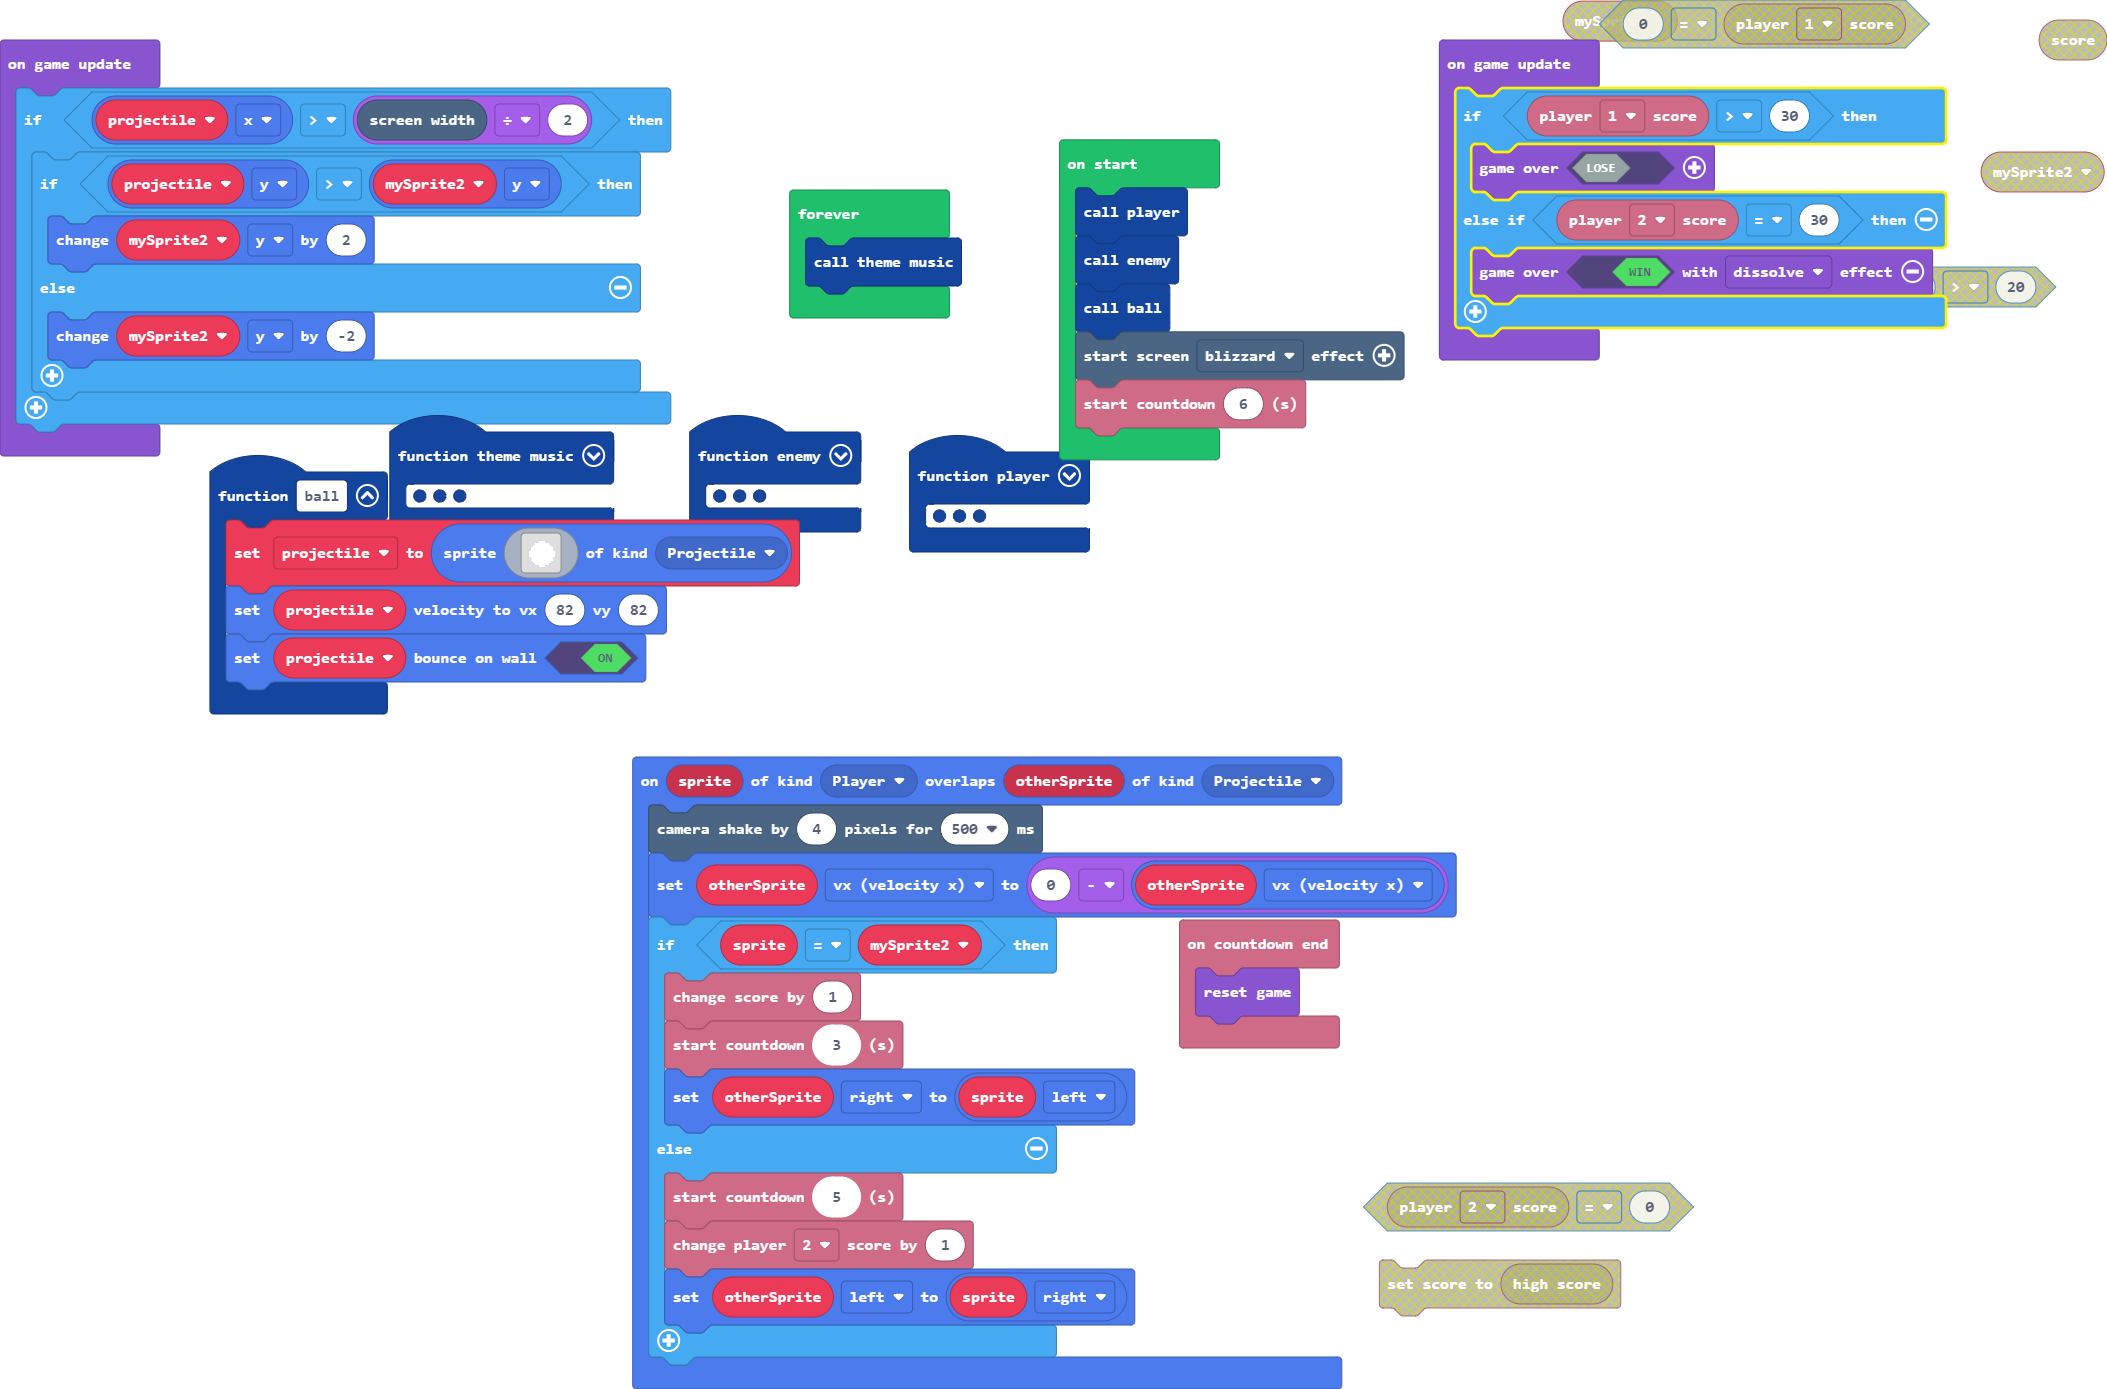
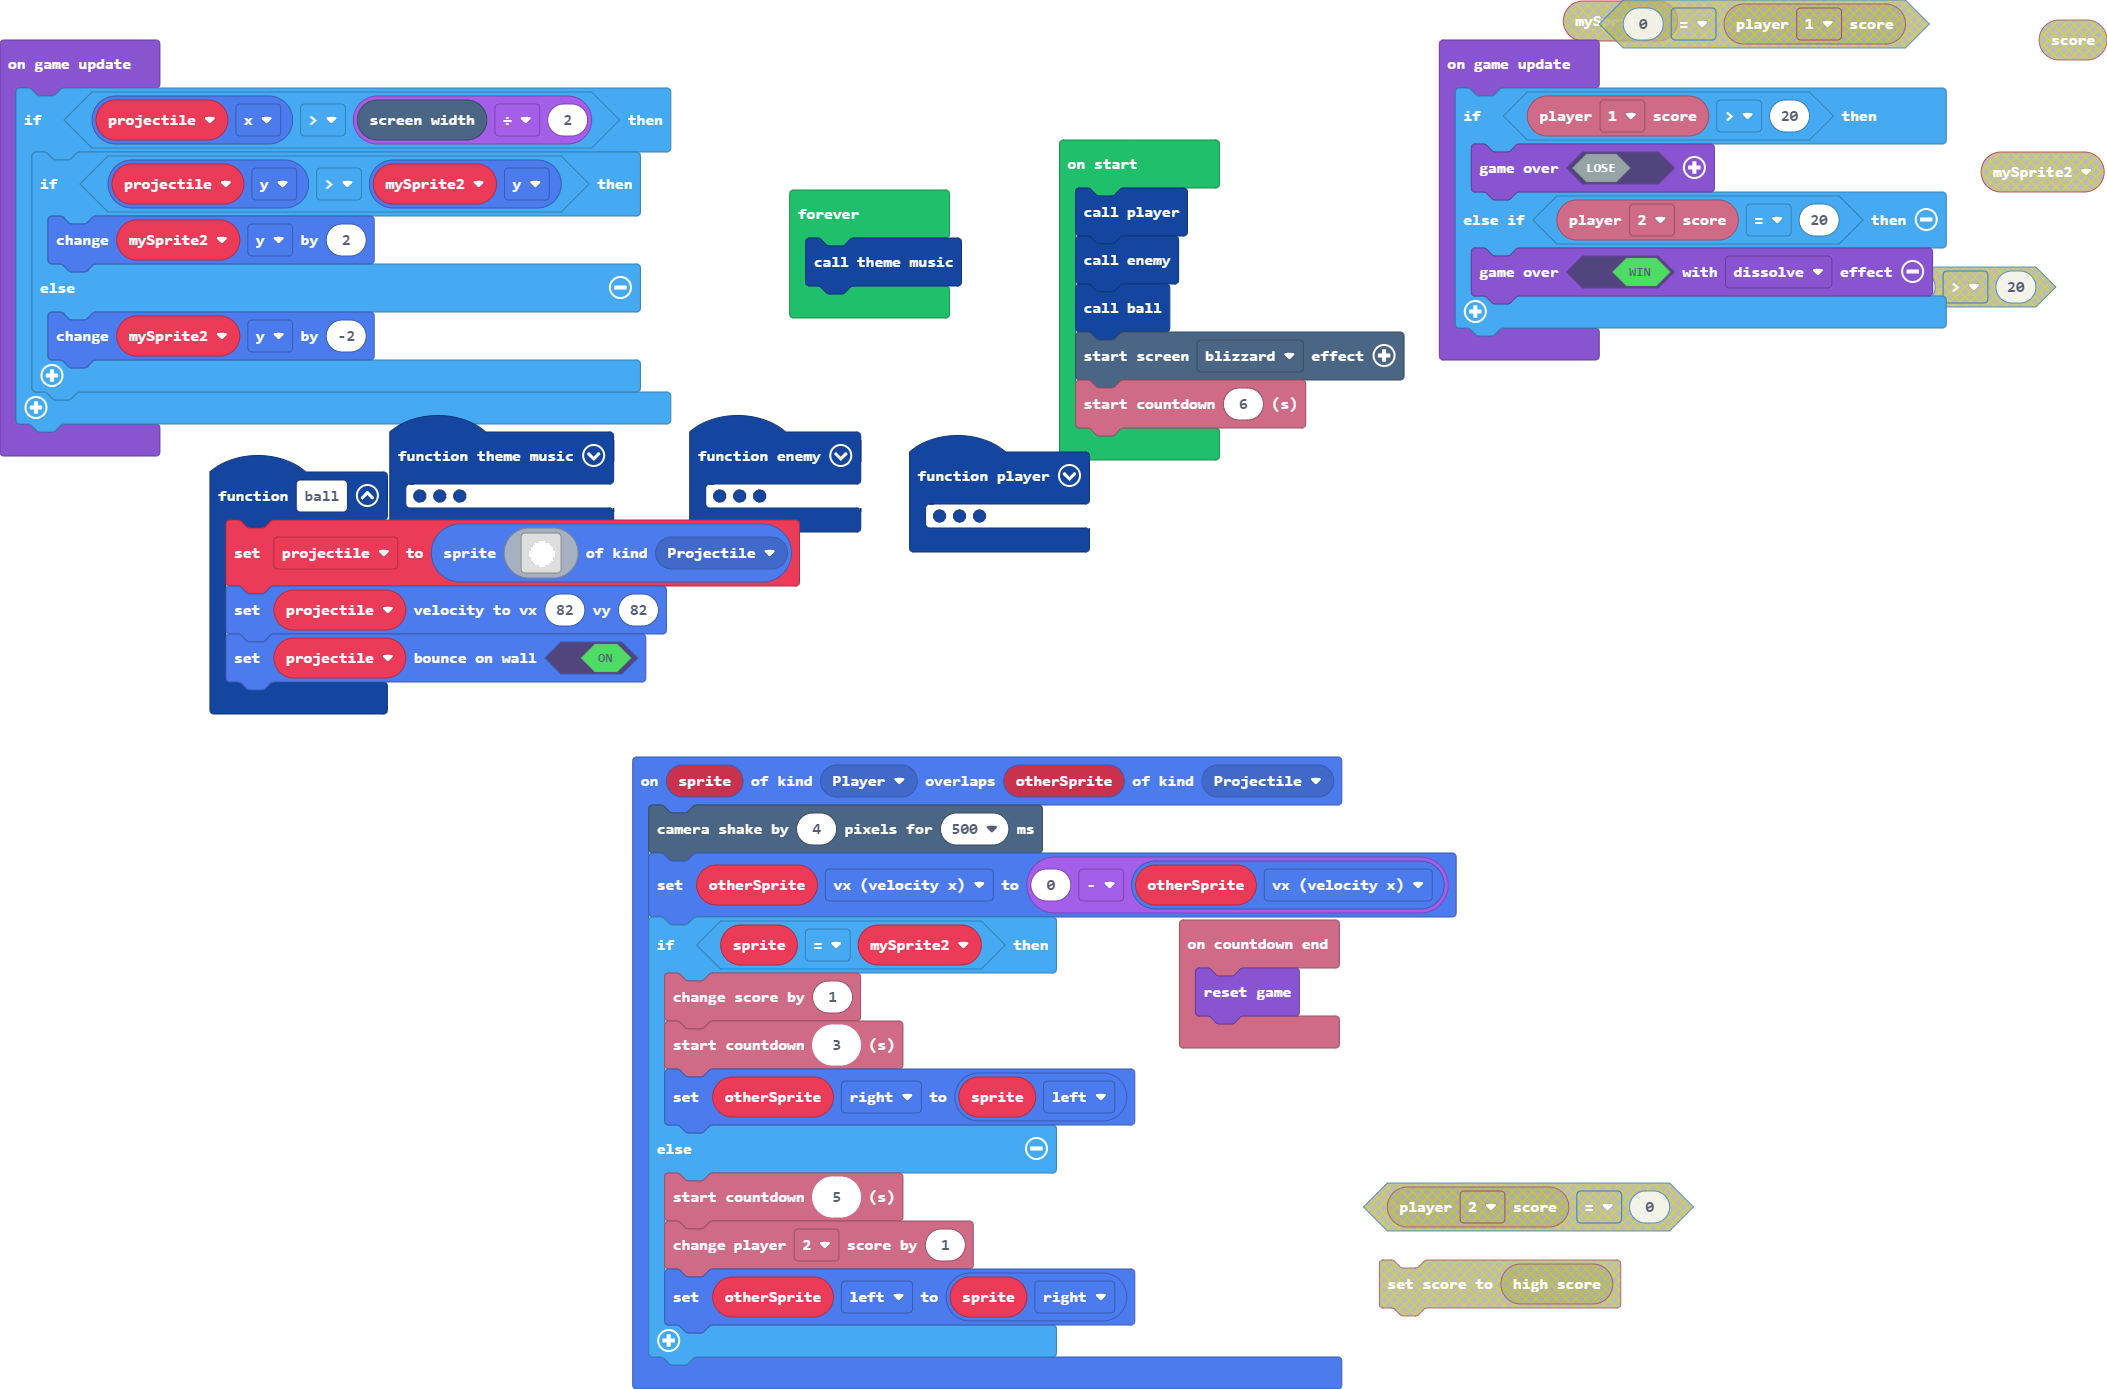
Update pxt.json, main.blocks, main.ts

diff --git a/main.ts b/main.ts
@@ -225,9 +225,9 @@ game.onUpdate(function () {
     }
 })
 game.onUpdate(function () {
-    if (info.player1.score() > 30) {
+    if (info.player1.score() > 20) {
         game.over(false)
-    } else if (info.player2.score() == 30) {
+    } else if (info.player2.score() == 20) {
         game.over(true, effects.dissolve)
     }
 })
